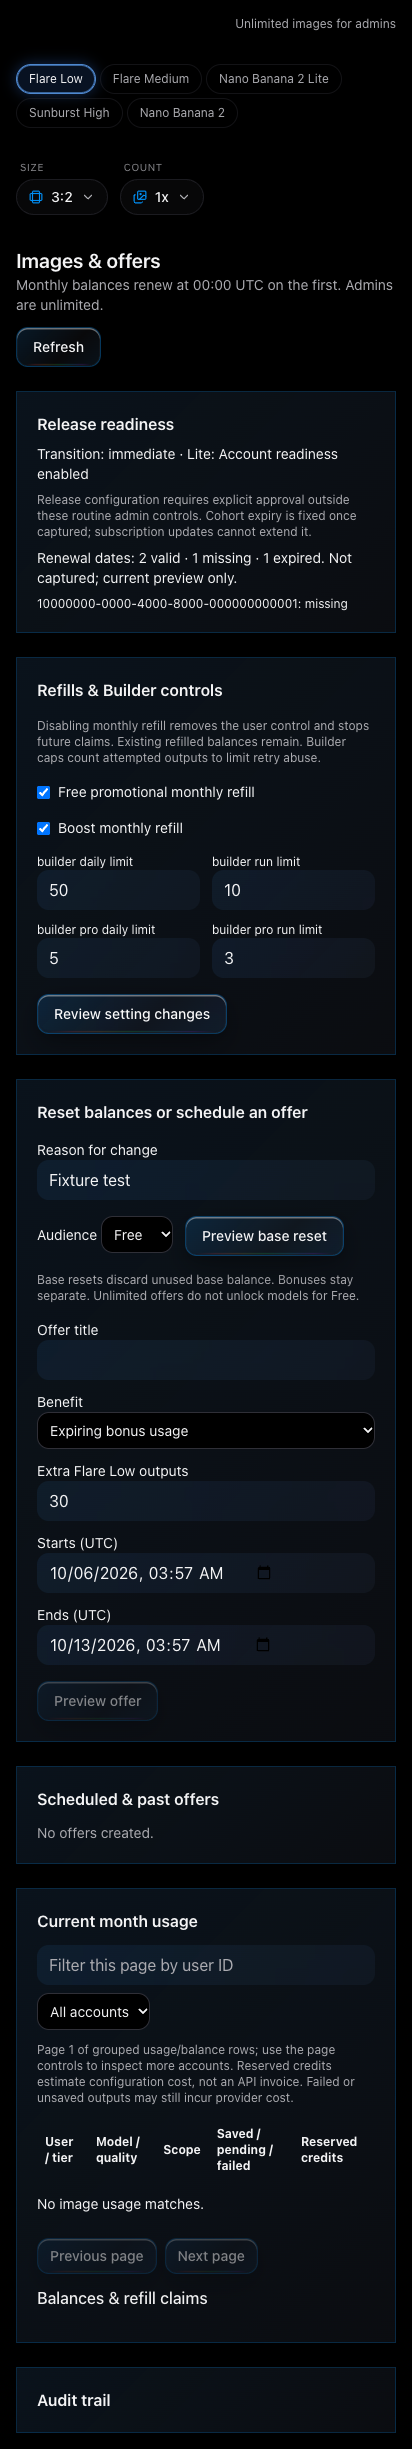
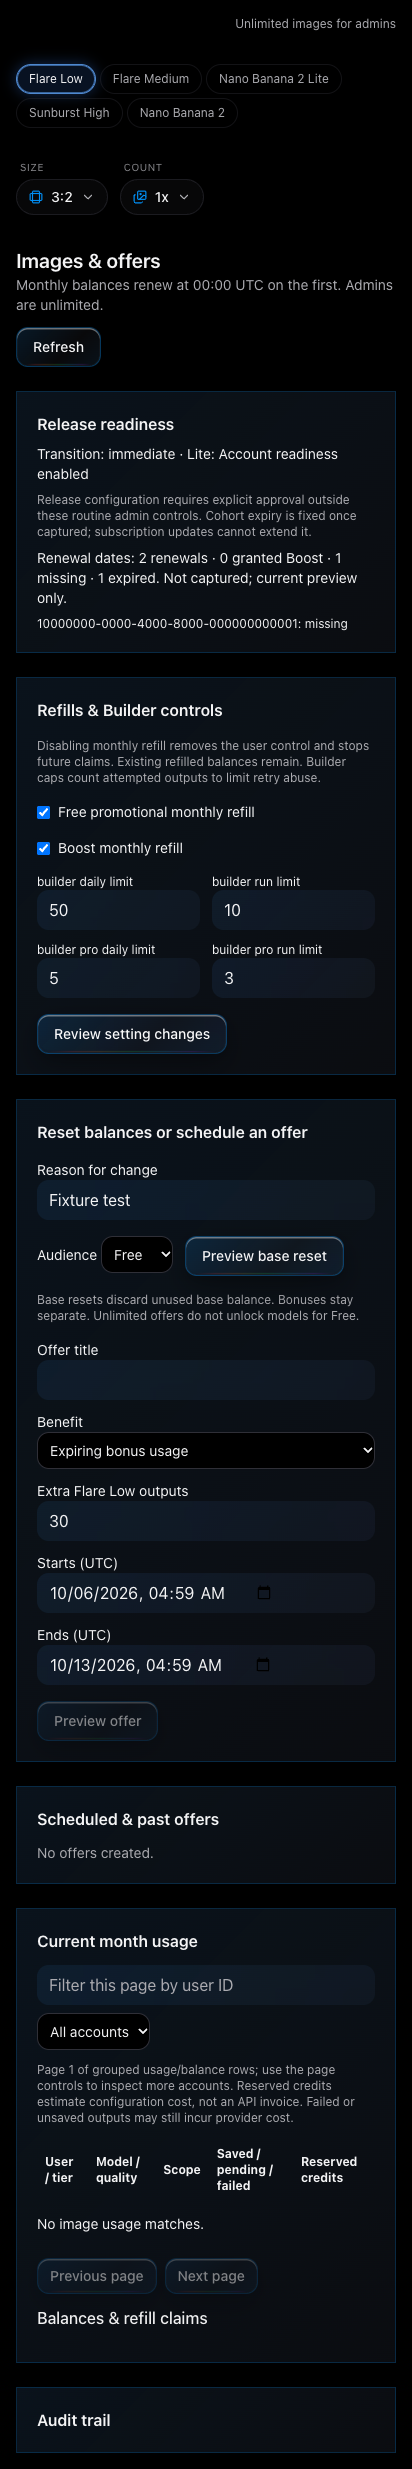
Separate granted Boost tiers from image renewal transition and fix edit selection

diff --git a/src/components/admin/ImageUsageAdmin.tsx b/src/components/admin/ImageUsageAdmin.tsx
@@ -10,7 +10,7 @@ type Usage = { user_id: string; tier: string; model: string; quality: string; sc
 type Balance = { user_id: string; tier: string; kind: string; remaining: number; capacity: number; expires_at: string };
 type Preview = { id: string; payload: Record<string, unknown>; preview: { affectedUsers: number; credits: number | null; estimatedOutputEnvelopeUSD: number | null; exposure: string; unusedBaseForfeited: number; audience: string } };
 type Audit = { id: string; actor: string; action: string; payload: { reason: string }; applied_at: string | null; created_at: string };
-type Dashboard = { transition?: { capturedAt: string | null; counts: { valid: number; missing: number; expired: number }; dateExceptions: { user_id: string; date_status: string }[] }; policy: Policy & { transition_mode?: string; lite_available?: boolean }; offers: Offer[]; usage: Usage[]; balances: Balance[]; audit: Audit[]; claims: { user_id: string; created_at: string; offer_id: string | null }[] };
+type Dashboard = { transition?: { capturedAt: string | null; counts: { valid: number; missing: number; expired: number; grant?: number }; dateExceptions: { user_id: string; date_status: string }[] }; policy: Policy & { transition_mode?: string; lite_available?: boolean }; offers: Offer[]; usage: Usage[]; balances: Balance[]; audit: Audit[]; claims: { user_id: string; created_at: string; offer_id: string | null }[] };
 async function imageAdmin<T>(action: string, payload: Record<string, unknown> = {}, key?: string): Promise<T> {
  const { data, error } = await supabase.rpc('admin_arc_images' as never, { action, payload, request_key: key ?? null } as never);
  if (error) throw new Error(error.message);
@@ -42,7 +42,7 @@ export function ImageUsageAdmin() {
  return <section className="space-y-6" aria-label="Admin image usage">
   <div className="flex flex-wrap items-center justify-between gap-3"><div><h2 className="text-xl font-semibold">Images & offers</h2><p className="text-sm text-muted-foreground">Monthly balances renew at 00:00 UTC on the first. Admins are unlimited.</p></div><Button disabled={busy} variant="outline" onClick={()=>void load()}>Refresh</Button></div>
   {error&&<p role="alert" className="text-sm">{error}</p>}
-  <div className="glass-card p-5 space-y-2"><h3 className="font-semibold">Release readiness</h3><p className="text-sm">Transition: {data.policy.transition_mode ?? 'unconfigured'} · Lite: {data.policy.lite_available ? 'Account readiness enabled' : 'Unavailable pending verification'}</p><p className="text-xs text-muted-foreground">Release configuration requires explicit approval outside these routine admin controls. Cohort expiry is fixed once captured; subscription updates cannot extend it.</p>{data.transition && <><p className="text-sm">Renewal dates: {data.transition.counts.valid} valid · {data.transition.counts.missing} missing · {data.transition.counts.expired} expired. {data.transition.capturedAt ? `Captured ${data.transition.capturedAt}` : 'Not captured; current preview only.'}</p><div className="max-h-40 overflow-auto">{data.transition.dateExceptions.map(x=><p className="text-xs" key={x.user_id}>{x.user_id}: {x.date_status}</p>)}</div></>}</div>
+  <div className="glass-card p-5 space-y-2"><h3 className="font-semibold">Release readiness</h3><p className="text-sm">Transition: {data.policy.transition_mode ?? 'unconfigured'} · Lite: {data.policy.lite_available ? 'Account readiness enabled' : 'Unavailable pending verification'}</p><p className="text-xs text-muted-foreground">Release configuration requires explicit approval outside these routine admin controls. Cohort expiry is fixed once captured; subscription updates cannot extend it.</p>{data.transition && <><p className="text-sm">Renewal dates: {data.transition.counts.valid} renewals · {data.transition.counts.grant ?? 0} granted Boost · {data.transition.counts.missing} missing · {data.transition.counts.expired} expired. {data.transition.capturedAt ? `Captured ${data.transition.capturedAt}` : 'Not captured; current preview only.'}</p><div className="max-h-40 overflow-auto">{data.transition.dateExceptions.map(x=><p className="text-xs" key={x.user_id}>{x.user_id}: {x.date_status}</p>)}</div></>}</div>
   <div className="glass-card p-5 space-y-4"><h3 className="font-semibold">Refills & Builder controls</h3><p className="text-xs text-muted-foreground">Disabling monthly refill removes the user control and stops future claims. Existing refilled balances remain. Builder caps count attempted outputs to limit retry abuse.</p>
    {(['free_refill_enabled','boost_refill_enabled'] as const).map(k=><label key={k} className="flex items-center gap-2 text-sm"><input type="checkbox" checked={settings[k]} onChange={e=>setSettings({...settings,[k]:e.target.checked})}/>{k==='free_refill_enabled'?'Free promotional monthly refill':'Boost monthly refill'}</label>)}
    <div className="grid grid-cols-2 md:grid-cols-4 gap-3">{(['builder_daily_limit','builder_run_limit','builder_pro_daily_limit','builder_pro_run_limit'] as const).map(k=><label key={k} className="text-xs">{k.replace(/_/g,' ')}<Input type="number" min={k.includes('pro')?0:1} value={settings[k]} onChange={e=>setSettings({...settings,[k]:Number(e.target.value)})}/></label>)}</div>

diff --git a/src/components/ImageEditModal.tsx b/src/components/ImageEditModal.tsx
@@ -1,3 +1,4 @@
+import { imageModelName } from '@/lib/imageModelNames';
 import { useState, useMemo, useEffect, useRef } from "react";
 import { Dialog, DialogContent } from "@/components/ui/dialog";
 import { Button } from "@/components/ui/button";
@@ -12,7 +13,7 @@ import {
   useImageGenStore,
   EDIT_ASPECT_OPTIONS,
   type EditAspectRatio,
-  type ImageModelId,
+  useEditImageModel,
   type ImageCount,
 } from "@/store/useImageGenStore";
 import { PromptEnhancer } from "@/components/PromptEnhancer";
@@ -47,10 +48,12 @@ export function ImageEditModal({ isOpen, onClose, imageUrl, originalPrompt, last
   const [additionalImages, setAdditionalImages] = useState<File[]>([]);
   const fileInputRef = useRef<HTMLInputElement>(null);
   const { toast } = useToast();
-  const { hasBoost, isAdmin, openCheckout } = useSubscription();
+  const { hasBoost, isAdmin } = useSubscription();
   const isBoostTier = Boolean(hasBoost || isAdmin);
   const { editAspectRatio: selectedAspect, count: selectedCount, setEditAspectRatio: setAspectRatio, setCount } = useImageGenStore();
-  const selectedModel: ImageModelId = 'gpt-image-2.5-sunburst';
+  const selectedModel = useEditImageModel(isBoostTier);
+  const mode = useImageGenStore(state => state.imageMode);
+  const selectedQuality = selectedModel.startsWith('gemini-') ? 'native' : selectedModel === 'gpt-image-2.5-sunburst' ? 'high' : !isBoostTier || mode === 'low' ? 'low' : 'medium';
   const [openMenu, setOpenMenu] = useState<null | "aspect" | "count">(null);
   const effectiveCount: ImageCount = selectedCount || 1;
 
@@ -154,6 +157,7 @@ export function ImageEditModal({ isOpen, onClose, imageUrl, originalPrompt, last
           additionalImages: additionalBase64s,
           editInstruction: textWithChips,
           imageModel: selectedModel,
+          quality: selectedQuality,
           aspectRatio: selectedAspect,
           count: effectiveCount,
         },
@@ -227,7 +231,7 @@ export function ImageEditModal({ isOpen, onClose, imageUrl, originalPrompt, last
               </div>
             )}
 
-            <ImageCreditSummary />
+            <ImageCreditSummary compact />
             {/* Image Preview(s) */}
             <div className="rounded-xl overflow-hidden border border-border/50 bg-muted/20">
               <div className="w-full">
@@ -329,10 +333,10 @@ export function ImageEditModal({ isOpen, onClose, imageUrl, originalPrompt, last
                 {/* Precision image editing via Image editing */}
                 <div
                   className="flex items-center gap-2 px-3 h-9 rounded-full border border-border/50 bg-muted/30 text-sm text-foreground select-none"
-                  title="Precision image editing via Image editing"
+                  title="Selected image model"
                 >
                   <Sparkles className="h-3.5 w-3.5 text-primary" />
-                  <span className="font-medium">Image editing</span>
+                  <span className="font-medium">{imageModelName(selectedModel)}</span>
                 </div>
 
                 {/* Aspect picker */}

diff --git a/src/dev/ImagePolicyQA.tsx b/src/dev/ImagePolicyQA.tsx
@@ -1,4 +1,6 @@
 /** Development-only local fixture. All API calls are intercepted by the browser test. */
+import { ImageEditModal } from '@/components/ImageEditModal';
+import { useImageGenStore, type ImageMode } from '@/store/useImageGenStore';
 import { createRoot } from 'react-dom/client';
 import { AuthProvider } from '@/hooks/useAuth';
 import { SubscriptionProvider } from '@/hooks/useSubscription';
@@ -8,4 +10,7 @@ import { PlanUsageBreakdown } from '@/components/PlanUsageBreakdown';
 import { ImageUsageAdmin } from '@/components/admin/ImageUsageAdmin';
 import '@/index.css';
 if (!import.meta.env.DEV) throw new Error('Local QA only');
-createRoot(document.getElementById('root')!).render(<AuthProvider><SubscriptionProvider><ImageQuotaProvider><main className="p-4 mx-auto max-w-5xl space-y-8">{location.search.includes('dashboard')?<PlanUsageBreakdown/>:<ImageOptionsContent/>}{location.search.includes('admin')&&<ImageUsageAdmin/>}</main></ImageQuotaProvider></SubscriptionProvider></AuthProvider>);
+const mode = new URLSearchParams(location.search).get('mode');
+if (['low','image','pro','lite'].includes(mode ?? '')) useImageGenStore.getState().setImageMode(mode as ImageMode);
+window.addEventListener('processImageEdit', e => Object.assign(window, {fixtureEditRequest:(e as CustomEvent).detail}));
+createRoot(document.getElementById('root')!).render(<AuthProvider><SubscriptionProvider><ImageQuotaProvider><main className="p-4 mx-auto max-w-5xl space-y-8">{location.search.includes('edit')&&<ImageEditModal isOpen onClose={()=>{}} imageUrl="/placeholder.svg"/>}{location.search.includes('dashboard')?<PlanUsageBreakdown/>:<ImageOptionsContent/>}{location.search.includes('admin')&&<ImageUsageAdmin/>}</main></ImageQuotaProvider></SubscriptionProvider></AuthProvider>);

diff --git a/src/components/ChatInput.tsx b/src/components/ChatInput.tsx
@@ -837,6 +837,7 @@ export const ChatInput = forwardRef<ChatInputRef, Props>(function ChatInput(
         additionalImages?: string[];
         editInstruction: string;
         imageModel?: string;
+        quality?: string;
         aspectRatio?: string;
         count?: number;
       }>;
@@ -849,6 +850,7 @@ export const ChatInput = forwardRef<ChatInputRef, Props>(function ChatInput(
         e.detail.additionalImages,
         e.detail.aspectRatio,
         e.detail.count,
+        e.detail.quality,
       );
     };
     const editedMessageHandler = (ev: Event) => {
@@ -885,6 +887,7 @@ export const ChatInput = forwardRef<ChatInputRef, Props>(function ChatInput(
     additionalImages?: string[],
     aspectRatio?: string,
     countOverride?: number,
+    quality: string = "low",
   ) => {
     // Read fresh from store to avoid stale closure issues
     if (useArcStore.getState().isGeneratingImage) return;
@@ -913,7 +916,7 @@ export const ChatInput = forwardRef<ChatInputRef, Props>(function ChatInput(
       });
 
       const effectiveCount = Math.max(1, Math.min(3, Math.floor(Number(countOverride ?? imageGenCount) || 1)));
-      const editResult = await ai.editImage(editInstruction, allImageUrls, imageModel, aspectRatio, effectiveCount);
+      const editResult = await ai.editImage(editInstruction, allImageUrls, imageModel, aspectRatio, effectiveCount, quality);
       const finalUrls = editResult.imageUrls;
 
       const fallbackModel = ((): string | null => { try { const v = (window as any).__lastImageFallback || null; (window as any).__lastImageFallback = null; return v; } catch { return null; } })();

diff --git a/docs/qa/image-policy/RELEASE-TRANSITION.md b/docs/qa/image-policy/RELEASE-TRANSITION.md
@@ -59,3 +59,19 @@ Current verification: connected Supabase read-only tools confirm project `jpqtoi
 After approval: fetch/reconcile current main; run candidate checks; deploy reviewed source through the existing main integration; verify migration/function/frontend versions and staged snapshots; inspect the release-time renewal-date report; apply only approved transition/readiness configuration; verify actual snapshots and expiry behavior. Real provider/storage smoke tests require authorization for their paid calls. The existing iOS release thread owns bundling, signing and TestFlight. No deployment, configuration write, campaign activation, billing change or native packaging occurred here.
 
 Public image branding has been retired in landing/pricing/modals, settings, docs/blogs, SEO/static HTML/llms.txt, source badges and provider error messages. Copy uses actual model names, while unavailable Lite remains hidden. No Image Studio product is introduced.
+
+## Owner-confirmed grant classification correction
+
+Jake confirmed that Frank and Bilbo were granted through Stripe and asked us to preserve their access rather than treat absent dates as unpaid/unverified renewals. The policy singleton contains only their two existing user UUIDs as server-controlled transition exclusions. This metadata does not create or modify a tier grant, subscription, billing record, or signup behavior. On approved activation they retain their existing Boost tier and receive the ordinary 250 monthly image credits and optional refill, with no fabricated paid-renewal expiry.
+
+Existing account_entitlement_grants lifetime Boost records are likewise classified as granted tier access, not year-9999 paid renewals. Their cohort expiry is NULL with status grant; no permanent unlimited image bypass is inherited. The pre-provisioned lifetime signup trigger is unchanged. An unclassified year-9999 sentinel is instead surfaced as missing and blocks default activation. There is no automatic perpetual transition. Admin quantity bypass and independent authorized campaigns remain unchanged.
+
+Read-only simulation at 2026-10-06 04:58:52 UTC: 4 grants, 1 ordinary future renewal, 1 expired admin promotion, 0 missing renewal dates. The formerly missing accounts no longer require Stripe connection or payment verification. The expired promo is still reported and receives finite image quantities under activation; tier records are untouched. Deployment/transition approval and Lite account readiness remain pending.
+
+## Edit routing
+
+Free edits use Flare Low. Normal Boost UI edits use the selected model; a fresh picker starts with Flare Low, and valid saved choices remain. Work edits default to Sunburst High. Builder edits use Flare Low unless the actual user explicitly asks for better images, then Sunburst High. Transparent edits require Flare/Sunburst; Google requests are rejected with switch guidance. Costs per output are Flare Low1, Flare Medium1 square/2 larger or source, Sunburst High4 square/6 larger or source, Lite3, full Nano5. Builder uses separate safety caps.
+
+The precision-edit modal had an old hardcoded Sunburst route and dropped captured quality in its event handler. This candidate makes it honor the same resolved tier/model selection and forwards captured quality through ChatInput to the edit service. The edit modal also uses the concise balance summary.
+
+Final grant/edit validation: disposable SQL policy tests PASS; browser fixtures PASS including Free/Boost precision edit event model and quality capture; production fixture build PASS; targeted ESLint PASS; final edit TSX parse PASS; excluded-file TypeScript check retains exactly the baseline 47 error signatures, with no additions.

diff --git a/docs/qa/image-policy/HANDOFF.md b/docs/qa/image-policy/HANDOFF.md
@@ -44,3 +44,5 @@ The inspected build21 archive contains bundled `dist-ios` web assets, no server.
 The picker now shows only a short balance/cost or unlimited status. Refill controls and transition explanations remain in Dashboard → Plan & usage details. Admin release readiness stays in the admin dashboard. Lite uses the exact label **Nano Banana 2 Lite**; the separate full model remains **Nano Banana 2**.
 
 Public image branding has been retired in landing/pricing/modals, settings, docs/blogs, SEO/static HTML/llms.txt, source badges and provider error messages. Copy uses actual model names, while unavailable Lite remains hidden. No Image Studio product is introduced.
+
+Owner-confirmed Stripe grants and explicit lifetime tier grants are now classified separately from paid-renewal grandfathering. They retain Boost tier and normal monthly image quantities after activation; year-9999 does not become perpetual unlimited image access. See RELEASE-TRANSITION.md. The precision edit modal follows the selected tier/model and preserves its quality rather than hardcoding Sunburst.

diff --git a/AGENTS.md b/AGENTS.md
@@ -241,7 +241,11 @@ spreads this map and overrides only the typography keys.
   Image rollout defaults to staged: Boost retains unlimited quantity until approved
   one-time transition capture. Grandfathering stores each existing eligible Boost
   account's fixed current-period expiry; webhook updates never extend it. Missing
-  renewal dates require an explicit release decision. Immediate transition is a
+  renewal dates require an explicit release decision. Owner-confirmed Stripe
+  grants and explicit lifetime tier grants retain ordinary Boost image quantities;
+  neither missing dates nor year-9999 lifetime sentinels create permanent image
+  grandfathering. Classification never modifies billing or tier grant records.
+  Immediate transition is a
   separate explicit release option. Lite stays hidden and server-blocked until
   account-specific read-only model readiness is recorded. Keep picker balance/cost
   concise; detailed refill and transition explanations belong in the dashboard.

diff --git a/CLAUDE.md b/CLAUDE.md
@@ -241,7 +241,11 @@ spreads this map and overrides only the typography keys.
   Image rollout defaults to staged: Boost retains unlimited quantity until approved
   one-time transition capture. Grandfathering stores each existing eligible Boost
   account's fixed current-period expiry; webhook updates never extend it. Missing
-  renewal dates require an explicit release decision. Immediate transition is a
+  renewal dates require an explicit release decision. Owner-confirmed Stripe
+  grants and explicit lifetime tier grants retain ordinary Boost image quantities;
+  neither missing dates nor year-9999 lifetime sentinels create permanent image
+  grandfathering. Classification never modifies billing or tier grant records.
+  Immediate transition is a
   separate explicit release option. Lite stays hidden and server-blocked until
   account-specific read-only model readiness is recorded. Keep picker balance/cost
   concise; detailed refill and transition explanations belong in the dashboard.

diff --git a/CODEX.md b/CODEX.md
@@ -241,7 +241,11 @@ spreads this map and overrides only the typography keys.
   Image rollout defaults to staged: Boost retains unlimited quantity until approved
   one-time transition capture. Grandfathering stores each existing eligible Boost
   account's fixed current-period expiry; webhook updates never extend it. Missing
-  renewal dates require an explicit release decision. Immediate transition is a
+  renewal dates require an explicit release decision. Owner-confirmed Stripe
+  grants and explicit lifetime tier grants retain ordinary Boost image quantities;
+  neither missing dates nor year-9999 lifetime sentinels create permanent image
+  grandfathering. Classification never modifies billing or tier grant records.
+  Immediate transition is a
   separate explicit release option. Lite stays hidden and server-blocked until
   account-specific read-only model readiness is recorded. Keep picker balance/cost
   concise; detailed refill and transition explanations belong in the dashboard.
